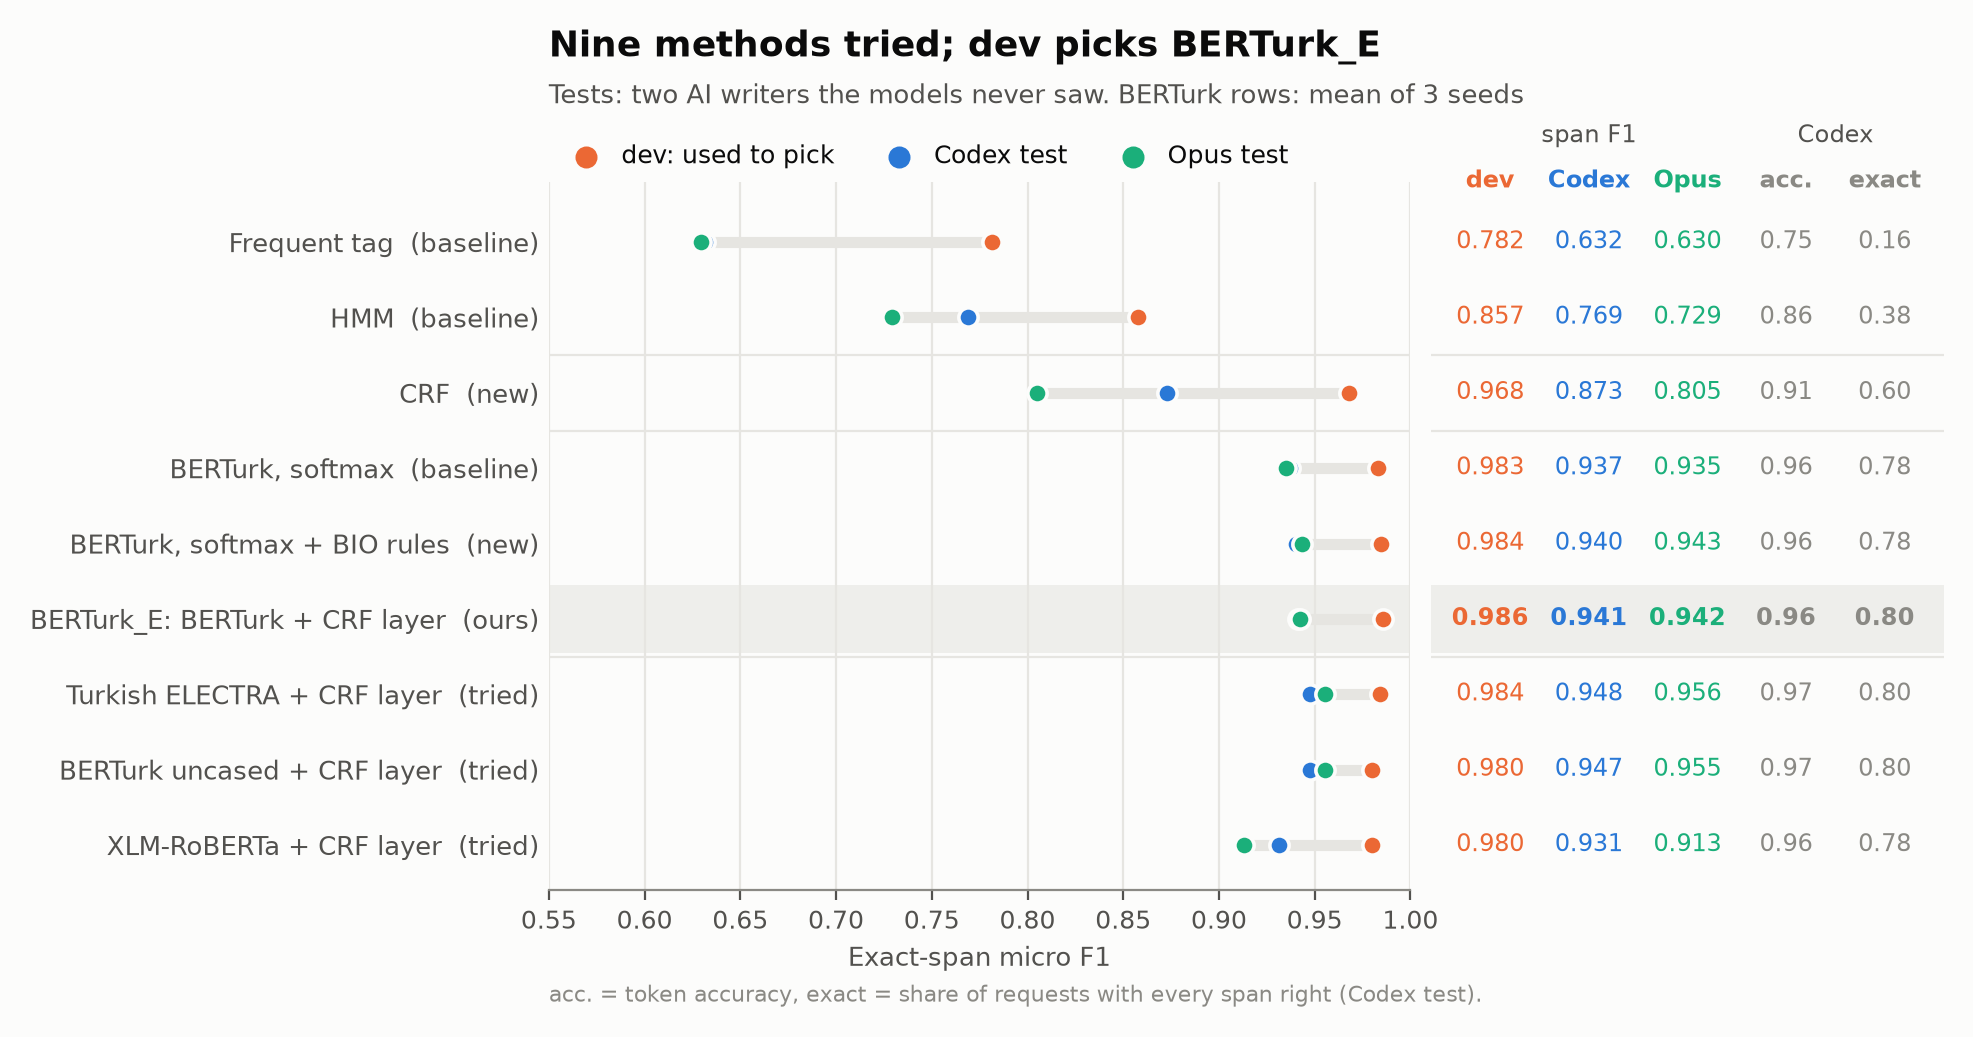
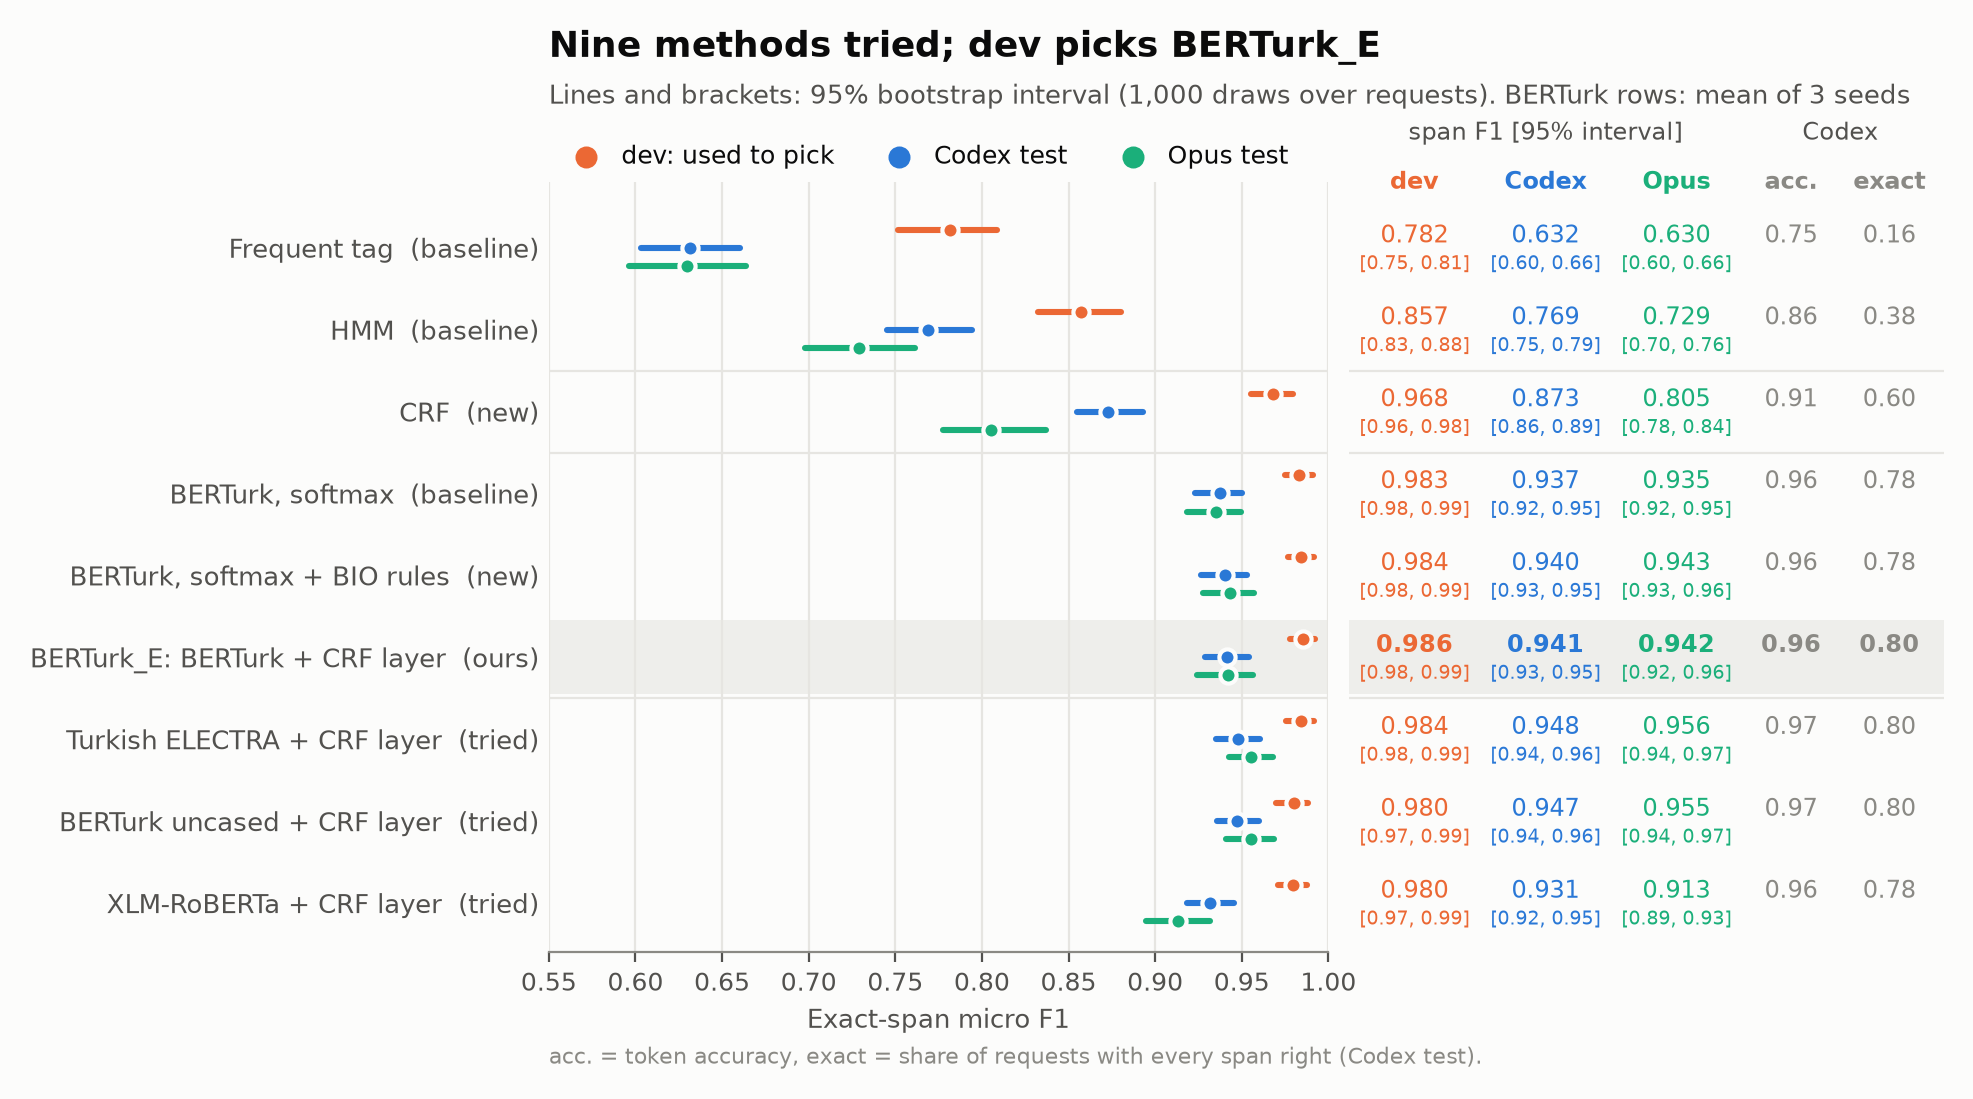
Show 95% intervals for dev as well as the tests

diff --git a/plot_results.py b/plot_results.py
@@ -125,10 +125,10 @@ def plot_models(evaluation):
     """Pre-trained encoders compared: dev F1 (used to pick one) against both unseen-writer tests, 95% intervals."""
     fig, ax = plt.subplots(figsize=(WIDTH, 3.6))
     rows = list(reversed(ENCODERS))
-    for y, (key, _, prefix) in enumerate(rows):
-        dev = statistics.mean(load(f"{prefix}_crf_seed{s}.json")["decoders"]["crf"]["dev"]["f1"] for s in SEEDS)
-        ax.scatter(dev, y + 0.2, s=50, color=SERIES[1], edgecolor=SURFACE, linewidth=1.5, zorder=3)
-        ax.text(dev + 0.002, y + 0.2, f"{dev:.3f}", ha="left", va="center", fontsize=8, color=SERIES[1])
+    for y, (key, _, _) in enumerate(rows):
+        dev = evaluation["dev"][key]
+        interval_dot(ax, dev["f1"], dev["low"], dev["high"], y + 0.2, SERIES[1], size=50)
+        ax.text(dev["low"] - 0.002, y + 0.2, f"{dev['f1']:.3f}", ha="right", va="center", fontsize=8, color=SERIES[1])
         for offset, test, color in ((0.0, "codex_test", SERIES[0]), (-0.2, "opus_test", SERIES[2])):
             s = evaluation["seeds"][key][test]
             interval_dot(ax, s["mean"], s["low"], s["high"], y + offset, color, size=50)
@@ -163,40 +163,41 @@ TRIED = [  # (key in evaluation.json, shown name, role, result file prefix and d
 
 
 def plot_benchmark(evaluation):
-    """Everything tried in one picture: span F1 on dev (used to pick) and on both unseen-writer tests, next to the
-    Codex token accuracy and request exact match that span F1 is preferred to."""
-    classic = load("classic.json")["models"]
-    fig, (ax, table) = plt.subplots(1, 2, figsize=(WIDTH, 4.6), sharey=True,
-                                    gridspec_kw={"width_ratios": [2.1, 1.25], "wspace": 0.03})
+    """Everything tried in one picture: span F1 with its 95% interval on dev (used to pick) and on both unseen-writer
+    tests, next to the Codex token accuracy and request exact match that span F1 is preferred to."""
+    fig, (ax, table) = plt.subplots(1, 2, figsize=(WIDTH, 5.0), sharey=True,
+                                    gridspec_kw={"width_ratios": [1.9, 1.45], "wspace": 0.03})
     rows = list(reversed(TRIED))
     columns = [("dev", SERIES[1]), ("Codex", SERIES[0]), ("Opus", SERIES[2]), ("acc.", MUTED), ("exact", MUTED)]
+    xs = [0, 1.2, 2.4, 3.45, 4.35]  # table column centres
     for y, (key, _, role, bert) in enumerate(rows):
-        if bert is None:
-            dev, s = classic[key]["dev"]["f1"], evaluation["models"][key]
-            codex, opus = s["codex_test"]["f1"], s["opus_test"]["f1"]
-            acc, exact = s["codex_test"]["token_accuracy"], s["codex_test"]["request_exact"]
-        else:
-            dev = statistics.mean(load(f"{bert[0]}_seed{seed}.json")["decoders"][bert[1]]["dev"]["f1"] for seed in SEEDS)
-            s = evaluation["seeds"][key]
-            codex, opus = s["codex_test"]["mean"], s["opus_test"]["mean"]
-            acc, exact = s["codex_test"]["mean_token_accuracy"], s["codex_test"]["mean_request_exact"]
+        s = evaluation["seeds" if bert else "models"][key]
+        scores = [evaluation["dev"][key]] + [dict(s[t], f1=s[t]["mean"] if bert else s[t]["f1"])
+                                             for t in ("codex_test", "opus_test")]
+        codex = s["codex_test"]
+        acc = codex["mean_token_accuracy" if bert else "token_accuracy"]
+        exact = codex["mean_request_exact" if bert else "request_exact"]
         if role == "ours":
             for a in (ax, table):
                 a.axhspan(y - 0.45, y + 0.45, color=GRID, alpha=0.6, zorder=0, linewidth=0)
-        ax.plot([min(codex, opus), dev], [y, y], color=GRID, linewidth=4, zorder=1, solid_capstyle="round")
-        for x, color in ((dev, SERIES[1]), (codex, SERIES[0]), (opus, SERIES[2])):
-            ax.scatter(x, y, s=48, color=color, edgecolor=SURFACE, linewidth=1.3, zorder=3)
-        for i, value in enumerate((dev, codex, opus, acc, exact)):
-            table.text(i, y, f"{value:.2f}" if i > 2 else f"{value:.3f}", ha="center", va="center", fontsize=8.5,
-                       color=columns[i][1], fontweight="bold" if role == "ours" else None)
+        bold = "bold" if role == "ours" else None
+        for i, (score, offset) in enumerate(zip(scores, (0.22, 0.0, -0.22))):
+            interval_dot(ax, score["f1"], score["low"], score["high"], y + offset, columns[i][1], size=34)
+            table.text(xs[i], y + 0.14, f"{score['f1']:.3f}", ha="center", va="center", fontsize=8.5,
+                       color=columns[i][1], fontweight=bold)
+            table.text(xs[i], y - 0.2, f"[{score['low']:.2f}, {score['high']:.2f}]", ha="center", va="center",
+                       fontsize=7, color=columns[i][1])
+        for i, value in ((3, acc), (4, exact)):
+            table.text(xs[i], y + 0.14, f"{value:.2f}", ha="center", va="center", fontsize=8.5, color=MUTED,
+                       fontweight=bold)
     for i, (name, color) in enumerate(columns):
-        table.text(i, len(rows) - 0.35, name, ha="center", va="bottom", fontsize=8.5, color=color, fontweight="bold")
-    table.text(1, len(rows) + 0.25, "span F1", ha="center", va="bottom", fontsize=8.5, color=INK_2)
-    table.text(3.5, len(rows) + 0.25, "Codex", ha="center", va="bottom", fontsize=8.5, color=INK_2)
+        table.text(xs[i], len(rows) - 0.35, name, ha="center", va="bottom", fontsize=8.5, color=color, fontweight="bold")
+    table.text(xs[1], len(rows) + 0.25, "span F1 [95% interval]", ha="center", va="bottom", fontsize=8.5, color=INK_2)
+    table.text((xs[3] + xs[4]) / 2, len(rows) + 0.25, "Codex", ha="center", va="bottom", fontsize=8.5, color=INK_2)
     for boundary in (2.5, 5.5, 6.5):  # other encoders | BERTurk decoders | CRF | count-based models
         for a in (ax, table):
             a.axhline(boundary, color=GRID, linewidth=0.8, zorder=0)
-    table.set_xlim(-0.6, len(columns) - 0.4)
+    table.set_xlim(-0.6, xs[-1] + 0.5)
     table.axis("off")
     ax.set_yticks(range(len(rows)), [f"{name}  ({role})" for _, name, role, _ in rows])
     clean_y(ax)
@@ -208,7 +209,8 @@ def plot_benchmark(evaluation):
     ax.scatter([], [], s=48, color=SERIES[2], label="Opus test")
     legend_row(ax, 3)
     header(ax, "Nine methods tried; dev picks BERTurk_E",
-           "Tests: two AI writers the models never saw. BERTurk rows: mean of 3 seeds", legend=True)
+           "Lines and brackets: 95% bootstrap interval (1,000 draws over requests). BERTurk rows: mean of 3 seeds",
+           legend=True)
     note(ax, "acc. = token accuracy, exact = share of requests with every span right (Codex test).", below=34)
     save(fig, "benchmark.png")
 

diff --git a/evaluate.py b/evaluate.py
@@ -8,6 +8,7 @@ For each test set (codex_test, biplan_test, opus_test) and model:
 - slices: requests typed without any Turkish letter vs with them, and PLACE spans written with a suffix;
 - IOB2 breaks: predicted I- tags that do not continue a span of their own label;
 - error types: wrong boundary, wrong label, missed span, invented span.
+Dev F1 per model (mean over seeds) with the same kind of interval, since dev picks the final model.
 Every Codex test request that BERTurk_E (lowest seed) gets wrong is listed with its gold and predicted spans in
 results/error_examples.json, for reading the errors by hand.
 Paired bootstrap intervals for the differences in PAIRS (the claims in the README) use the same draws for both models.
@@ -110,7 +111,7 @@ def main():
     models = load_predictions()
     out = {"requests": {t: len(rows) for t, rows in tests.items()},
            "slice_sizes": {t: sum(not TURKISH.search(r["text"]) for r in rows) for t, rows in tests.items()},
-           "models": {}, "seeds": {}, "differences": {}}
+           "models": {}, "seeds": {}, "dev": {}, "differences": {}}
     first = {}
     for name, by_seed in models.items():
         seed = min(by_seed, key=lambda s: -1 if s is None else s)
@@ -126,6 +127,11 @@ def main():
                                          "std": statistics.stdev(f1s), "low": low, "high": high,
                                          **{f"mean_{k}": statistics.mean(run[k] for run in runs)
                                             for k in ("macro_f1", "request_exact", "token_accuracy")}}
+    dev = [r["tags"] for r in read_jsonl(ROOT / "data" / "clean" / "dev.jsonl")]
+    for name, by_seed in models.items():  # dev decides which model is picked; its interval shows how sure that is
+        runs = [by_seed[s]["dev"] for s in sorted(by_seed, key=lambda s: s or 0)]
+        low, high = bootstrap_mean_f1(dev, runs)
+        out["dev"][name] = {"f1": statistics.mean(span_scores(dev, run)["f1"] for run in runs), "low": low, "high": high}
     for model, base in PAIRS:
         if model in first and base in first:
             out["differences"][f"{model} - {base}"] = {}

diff --git a/README.md b/README.md
@@ -189,14 +189,14 @@ settings were chosen on dev.
 
 | Method | Dev F1 | Codex test F1 | Opus test F1 | Bi' Plan F1 | IOB2 breaks (Codex + Bi' Plan) |
 |---|---|---|---|---|---|
-| Frequent tag | 0.782 | 0.632 [0.603, 0.661] | 0.630 [0.596, 0.664] | 0.717 [0.615, 0.826] | 188 |
-| HMM | 0.857 | 0.769 [0.745, 0.794] | 0.729 [0.698, 0.761] | 0.852 [0.741, 0.942] | 0 |
-| HMM + BIO rules | 0.857 | 0.769 [0.745, 0.794] | 0.729 [0.698, 0.761] | 0.852 [0.741, 0.942] | 0 |
-| CRF, no suffix features | 0.954 | 0.848 [0.827, 0.869] | 0.775 [0.748, 0.806] | 0.955 [0.909, 0.991] | 0 |
-| CRF | 0.968 | 0.873 [0.855, 0.893] | 0.805 [0.778, 0.837] | 0.965 [0.922, 1.000] | 0 |
-| BERTurk, softmax | 0.983 | 0.937 ± 0.003 [0.923, 0.950] | 0.935 ± 0.009 [0.918, 0.950] | 0.945 ± 0.010 [0.888, 0.986] | 8 |
-| BERTurk, softmax + BIO rules | 0.984 | 0.940 ± 0.002 [0.927, 0.953] | 0.943 ± 0.007 [0.928, 0.957] | 0.945 ± 0.010 [0.888, 0.986] | 0 |
-| **BERTurk_E (CRF layer)** | 0.986 | **0.941 ± 0.004** [0.929, 0.954] | **0.942 ± 0.005** [0.924, 0.957] | 0.956 ± 0.000 [0.902, 0.992] | 0 |
+| Frequent tag | 0.782 [0.752, 0.809] | 0.632 [0.603, 0.661] | 0.630 [0.596, 0.664] | 0.717 [0.615, 0.826] | 188 |
+| HMM | 0.857 [0.833, 0.880] | 0.769 [0.745, 0.794] | 0.729 [0.698, 0.761] | 0.852 [0.741, 0.942] | 0 |
+| HMM + BIO rules | 0.857 [0.833, 0.880] | 0.769 [0.745, 0.794] | 0.729 [0.698, 0.761] | 0.852 [0.741, 0.942] | 0 |
+| CRF, no suffix features | 0.954 [0.939, 0.969] | 0.848 [0.827, 0.869] | 0.775 [0.748, 0.806] | 0.955 [0.909, 0.991] | 0 |
+| CRF | 0.968 [0.955, 0.979] | 0.873 [0.855, 0.893] | 0.805 [0.778, 0.837] | 0.965 [0.922, 1.000] | 0 |
+| BERTurk, softmax | 0.983 [0.975, 0.991] | 0.937 ± 0.003 [0.923, 0.950] | 0.935 ± 0.009 [0.918, 0.950] | 0.945 ± 0.010 [0.888, 0.986] | 8 |
+| BERTurk, softmax + BIO rules | 0.984 [0.977, 0.992] | 0.940 ± 0.002 [0.927, 0.953] | 0.943 ± 0.007 [0.928, 0.957] | 0.945 ± 0.010 [0.888, 0.986] | 0 |
+| **BERTurk_E (CRF layer)** | 0.986 [0.978, 0.993] | **0.941 ± 0.004** [0.929, 0.954] | **0.942 ± 0.005** [0.924, 0.957] | 0.956 ± 0.000 [0.902, 0.992] | 0 |
 
 ![Dev F1 against Codex test F1 for every method](results/figures/dev_vs_test.png)
 
@@ -235,13 +235,13 @@ afterwards.
 
 | Model (+ CRF layer) | Architecture | Dev F1 | Codex test F1 | Opus test F1 | Opus: difference to BERTurk_E |
 |---|---|---|---|---|---|
-| **BERTurk_E** (BERTurk cased) | BERT | **0.986** | 0.941 [0.929, 0.954] | 0.942 [0.924, 0.957] | — |
-| Turkish ELECTRA | ELECTRA | 0.984 | 0.948 [0.935, 0.960] | 0.956 [0.942, 0.968] | +0.013 [+0.002, +0.026] |
-| BERTurk uncased | BERT | 0.980 | 0.947 [0.936, 0.960] | 0.955 [0.941, 0.969] | +0.013 [+0.001, +0.025] |
-| XLM-RoBERTa (multilingual) | RoBERTa | 0.980 | 0.931 [0.918, 0.945] | 0.913 [0.895, 0.932] | −0.029 [−0.044, −0.014] |
+| **BERTurk_E** (BERTurk cased) | BERT | **0.986** [0.978, 0.993] | 0.941 [0.929, 0.954] | 0.942 [0.924, 0.957] | — |
+| Turkish ELECTRA | ELECTRA | 0.984 [0.975, 0.992] | 0.948 [0.935, 0.960] | 0.956 [0.942, 0.968] | +0.013 [+0.002, +0.026] |
+| BERTurk uncased | BERT | 0.980 [0.970, 0.988] | 0.947 [0.936, 0.960] | 0.955 [0.941, 0.969] | +0.013 [+0.001, +0.025] |
+| XLM-RoBERTa (multilingual) | RoBERTa | 0.980 [0.971, 0.988] | 0.931 [0.918, 0.945] | 0.913 [0.895, 0.932] | −0.029 [−0.044, −0.014] |
 
 Mean over 3 seeds; brackets are the 95% interval of that mean, and the last column is the paired difference of the
-seed means. On Codex, ELECTRA and uncased BERTurk are +0.006 [−0.002, +0.014] over BERTurk_E (not distinguishable).
+seed means. The dev intervals overlap for all four, so dev alone cannot rank them. On Codex, ELECTRA and uncased BERTurk are +0.006 [−0.002, +0.014] over BERTurk_E (not distinguishable).
 
 - **Dev picks BERTurk_E**, so it stays the reported model. Choosing again after seeing the tests would leak them.
 - **Dev cannot separate the strong models.** All four score 0.98–0.99 on dev (same writer as training), within 0.006
